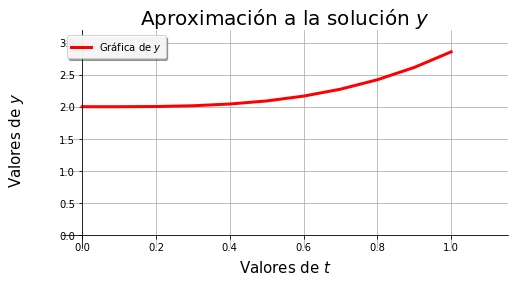
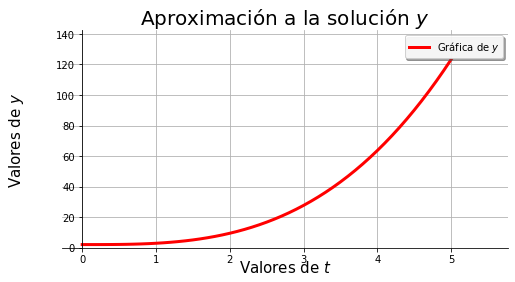
Update documentation

Changed region(s): [[0.0932, 0.1135, 0.9942, 0.9362]]

diff --git a/Laboratorios/Lab1/instalacion.html b/Laboratorios/Lab1/instalacion.html
@@ -395,8 +395,8 @@
 </div>
 <p>De acuerdo a tu equipo, selecciona la pestaña indicada</p>
 <div class="tabbed-set docutils">
-<input checked="checked" id="1904f46e-8de8-445f-8097-2603bcc720e0" name="b5c02d00-5bff-4fee-bac8-956ff0298958" type="radio">
-</input><label class="tabbed-label" for="1904f46e-8de8-445f-8097-2603bcc720e0">
+<input checked="checked" id="2f51a0b0-bc71-4c17-9d4b-d434f66e433f" name="10ada9b4-0ef4-4f1e-b033-8db04e19f5f7" type="radio">
+</input><label class="tabbed-label" for="2f51a0b0-bc71-4c17-9d4b-d434f66e433f">
 macOS</label><div class="tabbed-content docutils">
 <p>La documentación oficial de <a class="reference external" href="https://docs.anaconda.com/anaconda/install/mac-os/">instalación macOS</a>, puede llegar a parecer muy complicada, pero si se requiere algo en especifico vale la pena seguir.</p>
 <p>Se presenta un resumen de los pasos. Las imagenes  pueden ser distintas dependiendo de la versión del instalador</p>
@@ -427,8 +427,8 @@ https://docs.anaconda.com/_images/Navigator_Launchpad_icon.png"  width="20" heig
 <img src="https://raw.githubusercontent.com/rafneta/CienciaDatosPythonCIDE/master/imagenes/ana_mac.png" widht=60%>
 </div>
 </div>
-<input id="034cafc8-e3c4-43e3-8b50-95b95a44a7ac" name="b5c02d00-5bff-4fee-bac8-956ff0298958" type="radio">
-</input><label class="tabbed-label" for="034cafc8-e3c4-43e3-8b50-95b95a44a7ac">
+<input id="235a024a-35ab-47d0-9ca3-c11d971f173d" name="10ada9b4-0ef4-4f1e-b033-8db04e19f5f7" type="radio">
+</input><label class="tabbed-label" for="235a024a-35ab-47d0-9ca3-c11d971f173d">
 Windows</label><div class="tabbed-content docutils">
 <p>La documentación oficial de <a class="reference external" href="https://docs.anaconda.com/anaconda/install/windows/#installing-on-windows">instalación Windows</a>, puede llegar a parecer muy complicada, pero si se requiere algo en especifico vale la pena seguir.</p>
 <p>Se presenta un resumen de los pasos. Las imagenes  pueden ser distintas dependiendo de la versión del instalador</p>
@@ -460,8 +460,8 @@ https://docs.anaconda.com/_images/win-navigator2.png"  width="40" height="60"> y
 <img src="https://docs.anaconda.com/_images/nav-defaults.png" widht=60%>
 </div>
 </div>
-<input id="3af1107b-f9bf-47f4-a909-93dd5935df1e" name="b5c02d00-5bff-4fee-bac8-956ff0298958" type="radio">
-</input><label class="tabbed-label" for="3af1107b-f9bf-47f4-a909-93dd5935df1e">
+<input id="40e0eecf-8290-40f9-89ee-97585707546e" name="10ada9b4-0ef4-4f1e-b033-8db04e19f5f7" type="radio">
+</input><label class="tabbed-label" for="40e0eecf-8290-40f9-89ee-97585707546e">
 Linux</label><div class="tabbed-content docutils">
 <p>La documentación oficial de <a class="reference external" href="https://docs.anaconda.com/anaconda/install/linux/#installing-on-linux">instalación Linux</a>, puede llegar a parecer muy complicada, pero si se requiere algo en especifico vale la pena seguir.</p>
 <ol class="simple">

diff --git a/Laboratorios/Lab3/FuncionesMetodos.html b/Laboratorios/Lab3/FuncionesMetodos.html
@@ -823,7 +823,7 @@ y(t_{n+1})&amp;\approx&amp; y(t_{n})+f(y(t_n),t_n)h
 </div>
 <div class="cell docutils container">
 <div class="cell_input docutils container">
-<div class="highlight-ipython3 notranslate"><div class="highlight"><pre><span></span><span class="n">euler</span><span class="p">(</span><span class="n">f1</span><span class="p">,</span> <span class="mi">0</span><span class="p">,</span> <span class="mi">1</span><span class="p">,</span> <span class="mi">2</span><span class="p">)</span>
+<div class="highlight-ipython3 notranslate"><div class="highlight"><pre><span></span><span class="n">euler</span><span class="p">(</span><span class="n">f1</span><span class="p">,</span> <span class="mi">0</span><span class="p">,</span> <span class="mi">5</span><span class="p">,</span> <span class="mi">2</span><span class="p">)</span>
 </pre></div>
 </div>
 </div>
@@ -861,7 +861,7 @@ y(t_{n+1})&amp;\approx&amp; y(t_{n})+f(y(t_n),t_n)h
 </div>
 <div class="cell docutils container">
 <div class="cell_input docutils container">
-<div class="highlight-ipython3 notranslate"><div class="highlight"><pre><span></span><span class="n">euler</span><span class="p">(</span><span class="n">f1</span><span class="p">,</span> <span class="mi">0</span><span class="p">,</span> <span class="mi">2</span><span class="p">,</span> <span class="mi">2</span><span class="p">,</span> <span class="n">sol</span> <span class="o">=</span> <span class="n">f1sol</span><span class="p">)</span>
+<div class="highlight-ipython3 notranslate"><div class="highlight"><pre><span></span><span class="n">euler</span><span class="p">(</span><span class="n">f1</span><span class="p">,</span> <span class="mi">0</span><span class="p">,</span> <span class="mi">5</span><span class="p">,</span> <span class="mi">2</span><span class="p">,</span> <span class="n">sol</span> <span class="o">=</span> <span class="n">f1sol</span><span class="p">)</span>
 </pre></div>
 </div>
 </div>

diff --git a/Laboratorios/Lab2/Varfunif.html b/Laboratorios/Lab2/Varfunif.html
@@ -703,7 +703,9 @@ True
 </div>
 <div class="cell_output docutils container">
 <div class="output stream highlight-myst-ansi notranslate"><div class="highlight"><pre><span></span>4
-5.1
+</pre></div>
+</div>
+<div class="output stream highlight-myst-ansi notranslate"><div class="highlight"><pre><span></span>5.1
 </pre></div>
 </div>
 </div>
@@ -717,9 +719,7 @@ True
 </div>
 <div class="cell_output docutils container">
 <div class="output stream highlight-myst-ansi notranslate"><div class="highlight"><pre><span></span>(2, 1)
-</pre></div>
-</div>
-<div class="output stream highlight-myst-ansi notranslate"><div class="highlight"><pre><span></span>(23, 2)
+(23, 2)
 </pre></div>
 </div>
 </div>
